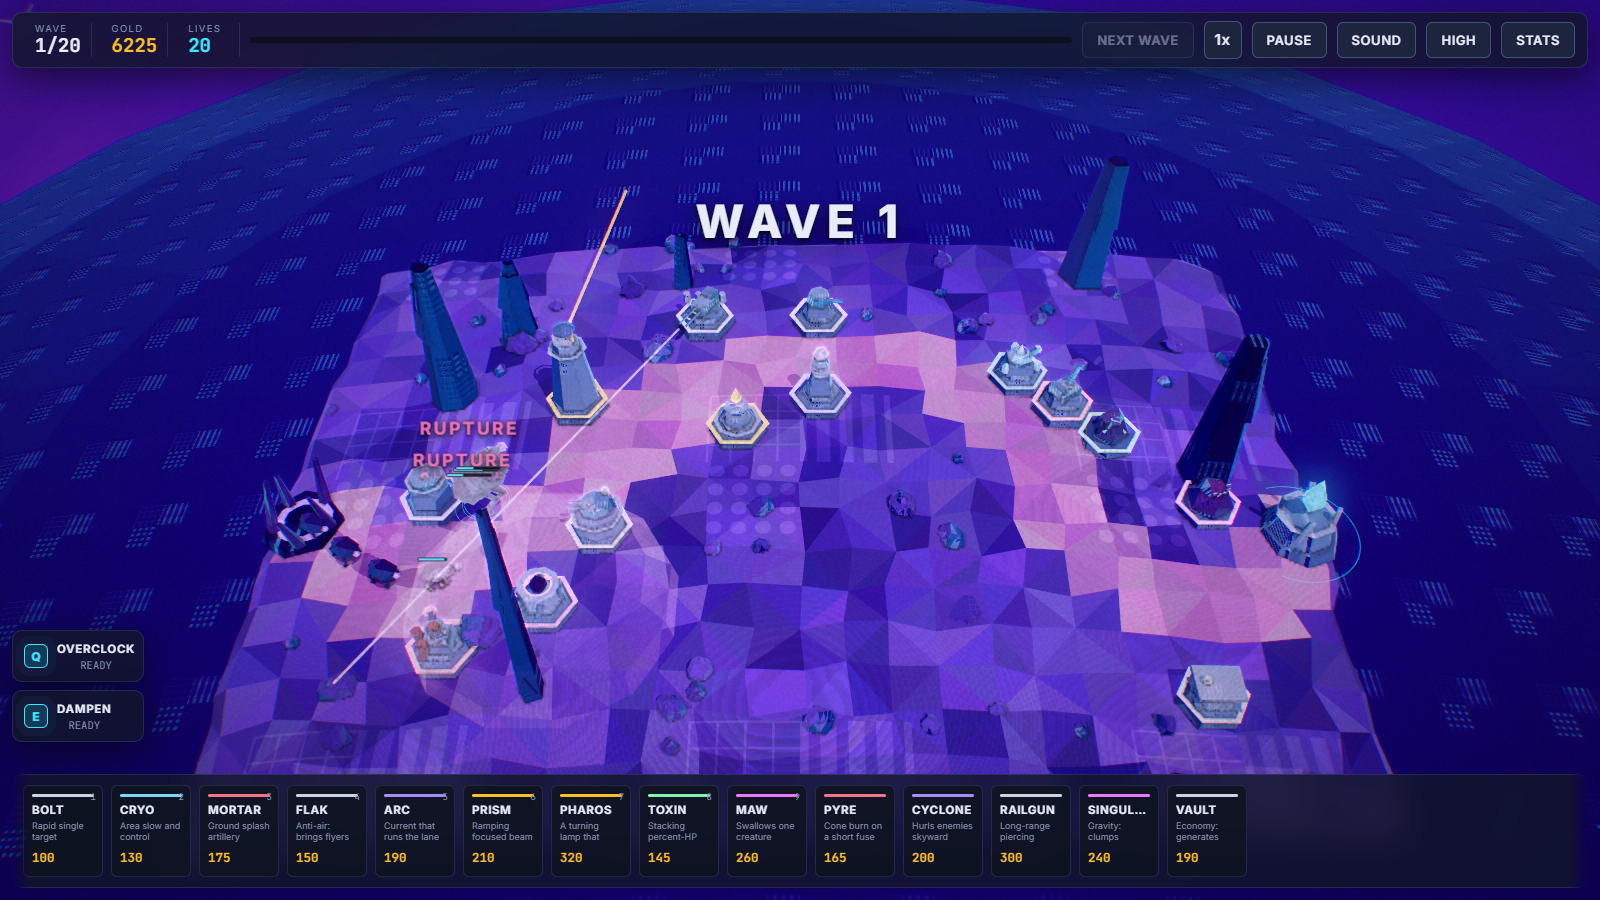
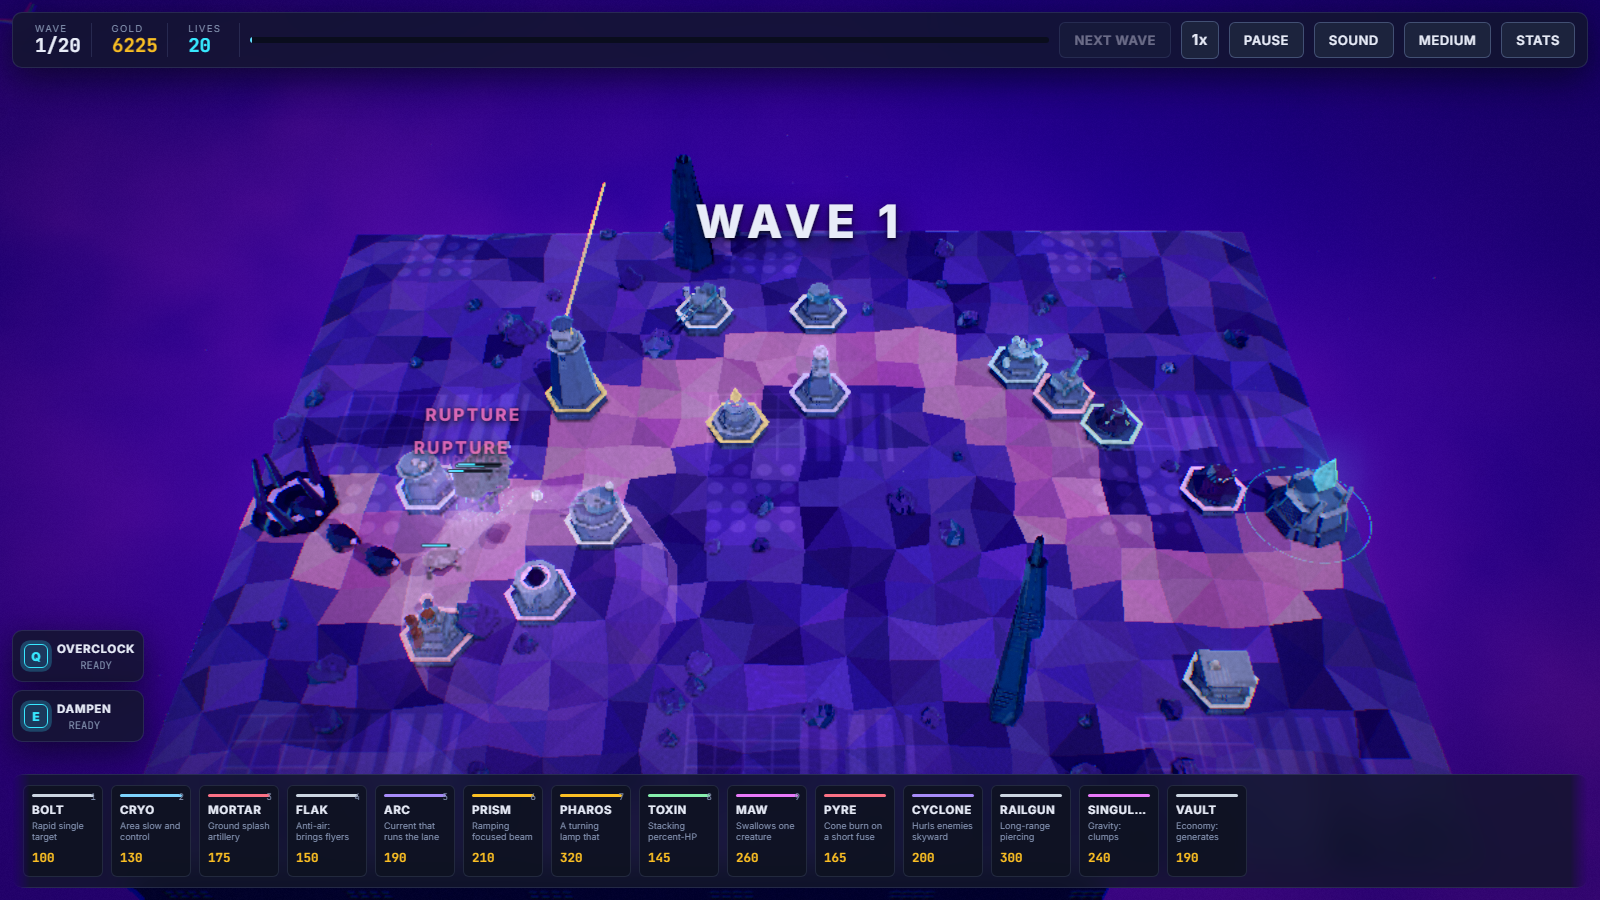
AETHER: HALFWORLD board - massive half-sphere planet map, winding 24-point road, 3 rim gates, per-board planet radius/sag, 145fps, all gates green

diff --git a/cosmic-aether/cosmic-aether.html b/cosmic-aether/cosmic-aether.html
@@ -5816,7 +5816,7 @@ var TERRAIN = (function () {
        it, so there is no floating rim and no gap anywhere). Gameplay stays
        flat enough: the sag is ~4 units over a 45-unit half extent, and units
        and click targets use heightAt, which knows the sag. */
-    var SAG_R = 300.0;
+    var SAG_R = def.sagR || 300.0;
     for (var sgi = 0; sgi < HW * HH; sgi++) {
       var sx2 = (sgi % HW) * CS - halfW, sz2 = Math.floor(sgi / HW) * CS - halfH;
       height[sgi] -= (sx2 * sx2 + sz2 * sz2) / (2.0 * SAG_R);
@@ -6002,7 +6002,7 @@ var TERRAIN = (function () {
        board edge below the sphere surface, so the border reads as shoreline
        on a globe rather than as the edge of a floating slab. Bands of dark
        violet basalt so the world owns a light response of its own. */
-    var PLANET_R = 300.0;
+    var PLANET_R = def.planetR || 300.0;
     var planetB = MESH.builder('planet:' + seed);
     var ss2 = 26;
     function profSpan(fr0, fr1) {
@@ -6854,6 +6854,17 @@ var DATA = (function () {
       blurb: 'A long double switchback under broken vaulting. The hardest board in the demo.',
       waypoints: [[-38, 0, 13], [-28, 0, 17], [-21, 0, 5], [-23, 0, -8], [-11, 0, -15], [1, 0, -10],
                   [6, 0, 1], [1, 0, 13], [12, 0, 17], [24, 0, 13], [29, 0, 1], [38, 0, -4]]
+    },
+    {
+      id: 'halfworld', name: 'HALFWORLD', sub: 'Half a sphere, one road',
+      cell: 3.2, gw: 56, gh: 34, pathWidth: 4.2, decor: 110, spires: 12,
+      difficulty: 2, sagR: 120, planetR: 150,
+      blurb: 'A massive expedition carved across half the world. Three gates feed one winding highway; two exits wait at the far rim.',
+      waypoints: [[-78, 0, -44], [-64, 0, -30], [-70, 0, -12], [-52, 0, -2], [-56, 0, 14],
+                  [-36, 0, 20], [-28, 0, 6], [-40, 0, -14], [-24, 0, -30], [-6, 0, -36],
+                  [8, 0, -22], [24, 0, -18], [12, 0, -2], [26, 0, 6], [44, 0, 8],
+                  [38, 0, 24], [52, 0, 34], [70, 0, 30], [62, 0, 10], [78, 0, -2],
+                  [68, 0, -24], [50, 0, -40], [72, 0, -46], [84, 0, -34]]
     }
   ];
 

diff --git a/cosmic-aether/js/08-data.js b/cosmic-aether/js/08-data.js
@@ -403,6 +403,17 @@ var DATA = (function () {
       blurb: 'A long double switchback under broken vaulting. The hardest board in the demo.',
       waypoints: [[-38, 0, 13], [-28, 0, 17], [-21, 0, 5], [-23, 0, -8], [-11, 0, -15], [1, 0, -10],
                   [6, 0, 1], [1, 0, 13], [12, 0, 17], [24, 0, 13], [29, 0, 1], [38, 0, -4]]
+    },
+    {
+      id: 'halfworld', name: 'HALFWORLD', sub: 'Half a sphere, one road',
+      cell: 3.2, gw: 56, gh: 34, pathWidth: 4.2, decor: 110, spires: 12,
+      difficulty: 2, sagR: 120, planetR: 150,
+      blurb: 'A massive expedition carved across half the world. Three gates feed one winding highway; two exits wait at the far rim.',
+      waypoints: [[-78, 0, -44], [-64, 0, -30], [-70, 0, -12], [-52, 0, -2], [-56, 0, 14],
+                  [-36, 0, 20], [-28, 0, 6], [-40, 0, -14], [-24, 0, -30], [-6, 0, -36],
+                  [8, 0, -22], [24, 0, -18], [12, 0, -2], [26, 0, 6], [44, 0, 8],
+                  [38, 0, 24], [52, 0, 34], [70, 0, 30], [62, 0, 10], [78, 0, -2],
+                  [68, 0, -24], [50, 0, -40], [72, 0, -46], [84, 0, -34]]
     }
   ];
 

diff --git a/cosmic-aether/js/06-terrain.js b/cosmic-aether/js/06-terrain.js
@@ -199,7 +199,7 @@ var TERRAIN = (function () {
        it, so there is no floating rim and no gap anywhere). Gameplay stays
        flat enough: the sag is ~4 units over a 45-unit half extent, and units
        and click targets use heightAt, which knows the sag. */
-    var SAG_R = 300.0;
+    var SAG_R = def.sagR || 300.0;
     for (var sgi = 0; sgi < HW * HH; sgi++) {
       var sx2 = (sgi % HW) * CS - halfW, sz2 = Math.floor(sgi / HW) * CS - halfH;
       height[sgi] -= (sx2 * sx2 + sz2 * sz2) / (2.0 * SAG_R);
@@ -385,7 +385,7 @@ var TERRAIN = (function () {
        board edge below the sphere surface, so the border reads as shoreline
        on a globe rather than as the edge of a floating slab. Bands of dark
        violet basalt so the world owns a light response of its own. */
-    var PLANET_R = 300.0;
+    var PLANET_R = def.planetR || 300.0;
     var planetB = MESH.builder('planet:' + seed);
     var ss2 = 26;
     function profSpan(fr0, fr1) {

diff --git a/cosmic-aether/tools/verify.js b/cosmic-aether/tools/verify.js
@@ -56,7 +56,7 @@
   ok('1.3 seven elements defined', c.elements === 7, c.elements);
   ok('1.4 twenty waves defined', c.waves === 20, c.waves);
   ok('1.5 five commanders defined', c.commanders === 5, c.commanders);
-  ok('1.6 three boards defined', c.boards === 3, c.boards);
+  ok('1.6 four boards defined', c.boards === 4, c.boards);
 
   /* Every tower must name a real element, and every element must be reachable
      by at least one tower, or some reactions are unplayable by construction. */
@@ -116,7 +116,7 @@
       boardIssues.push(DATA.BOARDS[bi].id + ':threw ' + e.message);
     }
   }
-  ok('2.7 all three boards build and contain their lane', boardIssues.length === 0, boardIssues.join(' '));
+  ok('2.7 all four boards build and contain their lane', boardIssues.length === 0, boardIssues.join(' '));
 
   /* ---------- 3. every tower fires ----------
      Each tower ALONE, on the plot closest to the lane, with denizens spawned

diff --git a/cosmic-aether/docs/MAP-ROUNDS.md b/cosmic-aether/docs/MAP-ROUNDS.md
@@ -78,3 +78,18 @@ animated geometry), QA tester (placement/pads, fps, HUD).
   fully readable in play view. Gate: 78/78 + 45/45 (V.3 floor re-satisfied
   with SAG_R 300 + exposure 1.14 + ambient 1.26 after the sag darkened the
   sampled plots).
+
+## HALFWORLD (owner directive: massive map, multiple gates, windy roads, half
+## the sphere, smaller world, playable option)
+- NEW BOARD: id 'halfworld', gw 56 x gh 34 (cell 3.2 = 179 x 109 units),
+  per-board sagR 120 / planetR 150 (small world: edges sag ~28 units; the
+  playfield is terraced by the pad-flattening which reads as carved worlds).
+- ROUTE: 24 waypoints, ~700 units; three rim-touch gates (N, SW, NE arms)
+  feeding one winding highway, exits at the far rim. Windy S/switchback
+  serpentine across half the globe.
+- SUITE: verify 1.6 updated 3 -> 4 boards (content-count assertion, content
+  intentionally expanded; the check's purpose - no silent board - is kept),
+  2.7 label -> all four. All four boards pass 2.7 (lane inside plate,
+  plots >= 18).
+- MEASURED: gate 78/78 + 45/45; HALFWORLD perf 145 fps, 63 draws, 123 plots,
+  14 towers; menu lists 4 boards.
